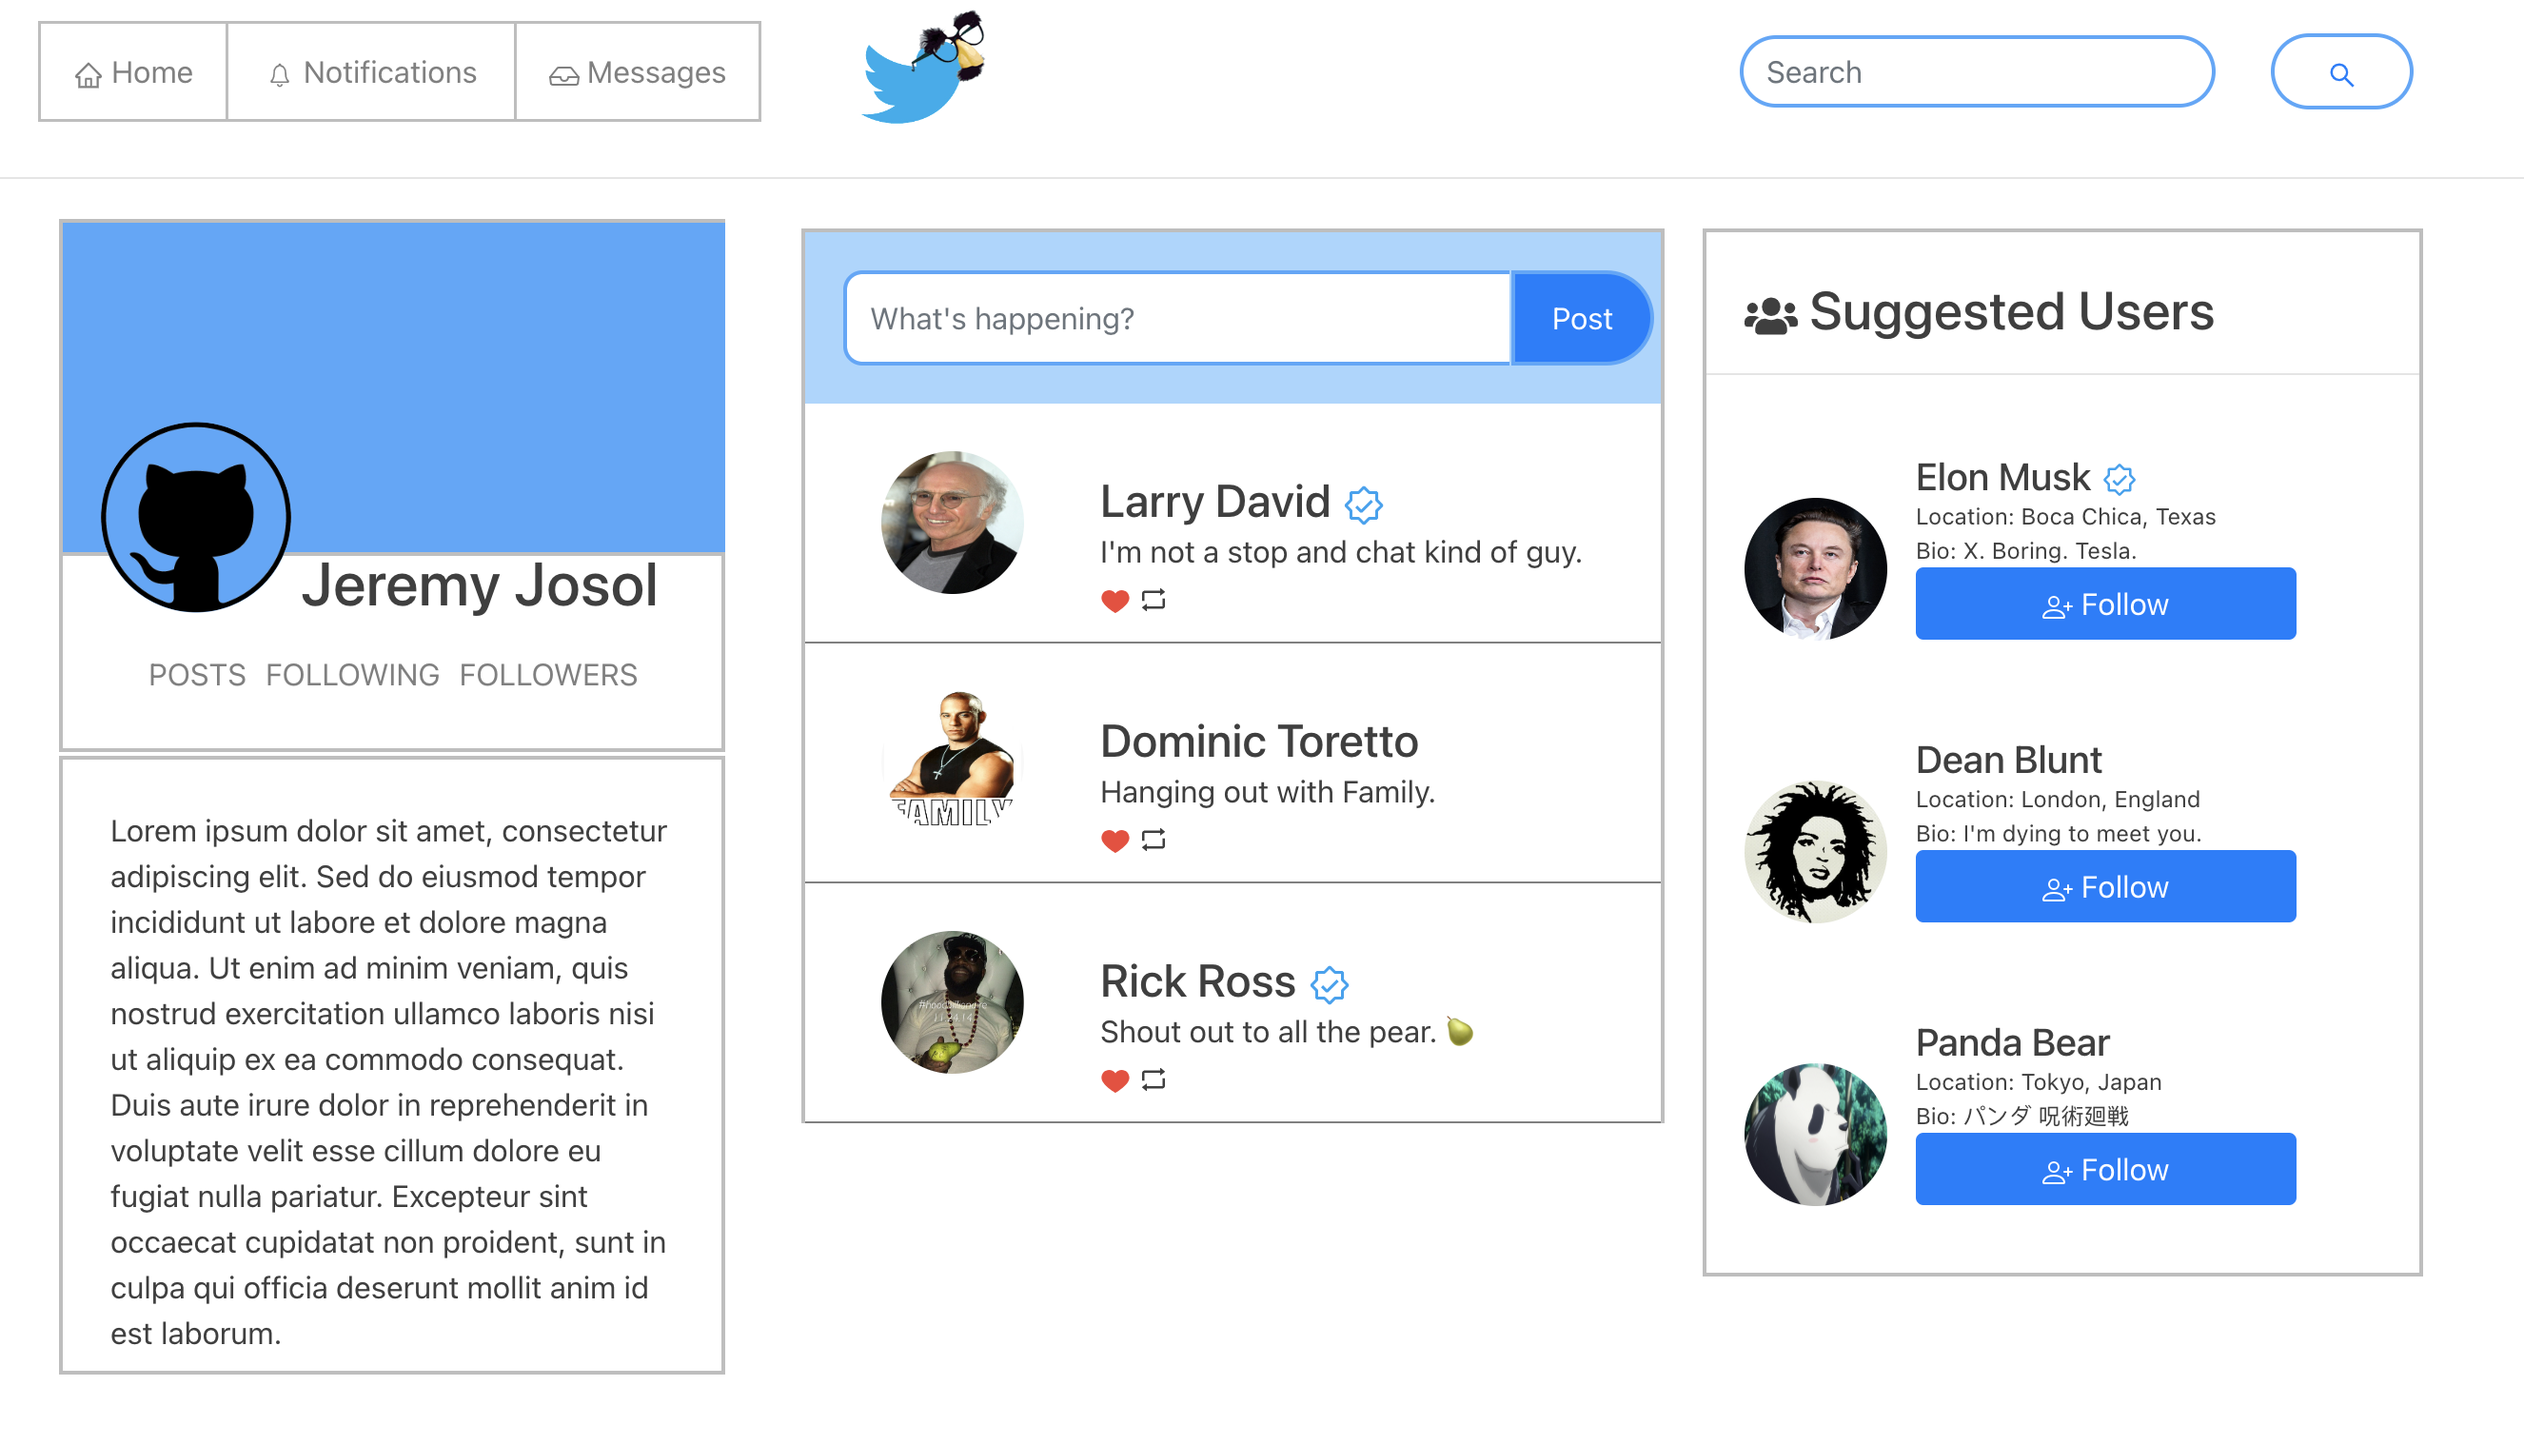
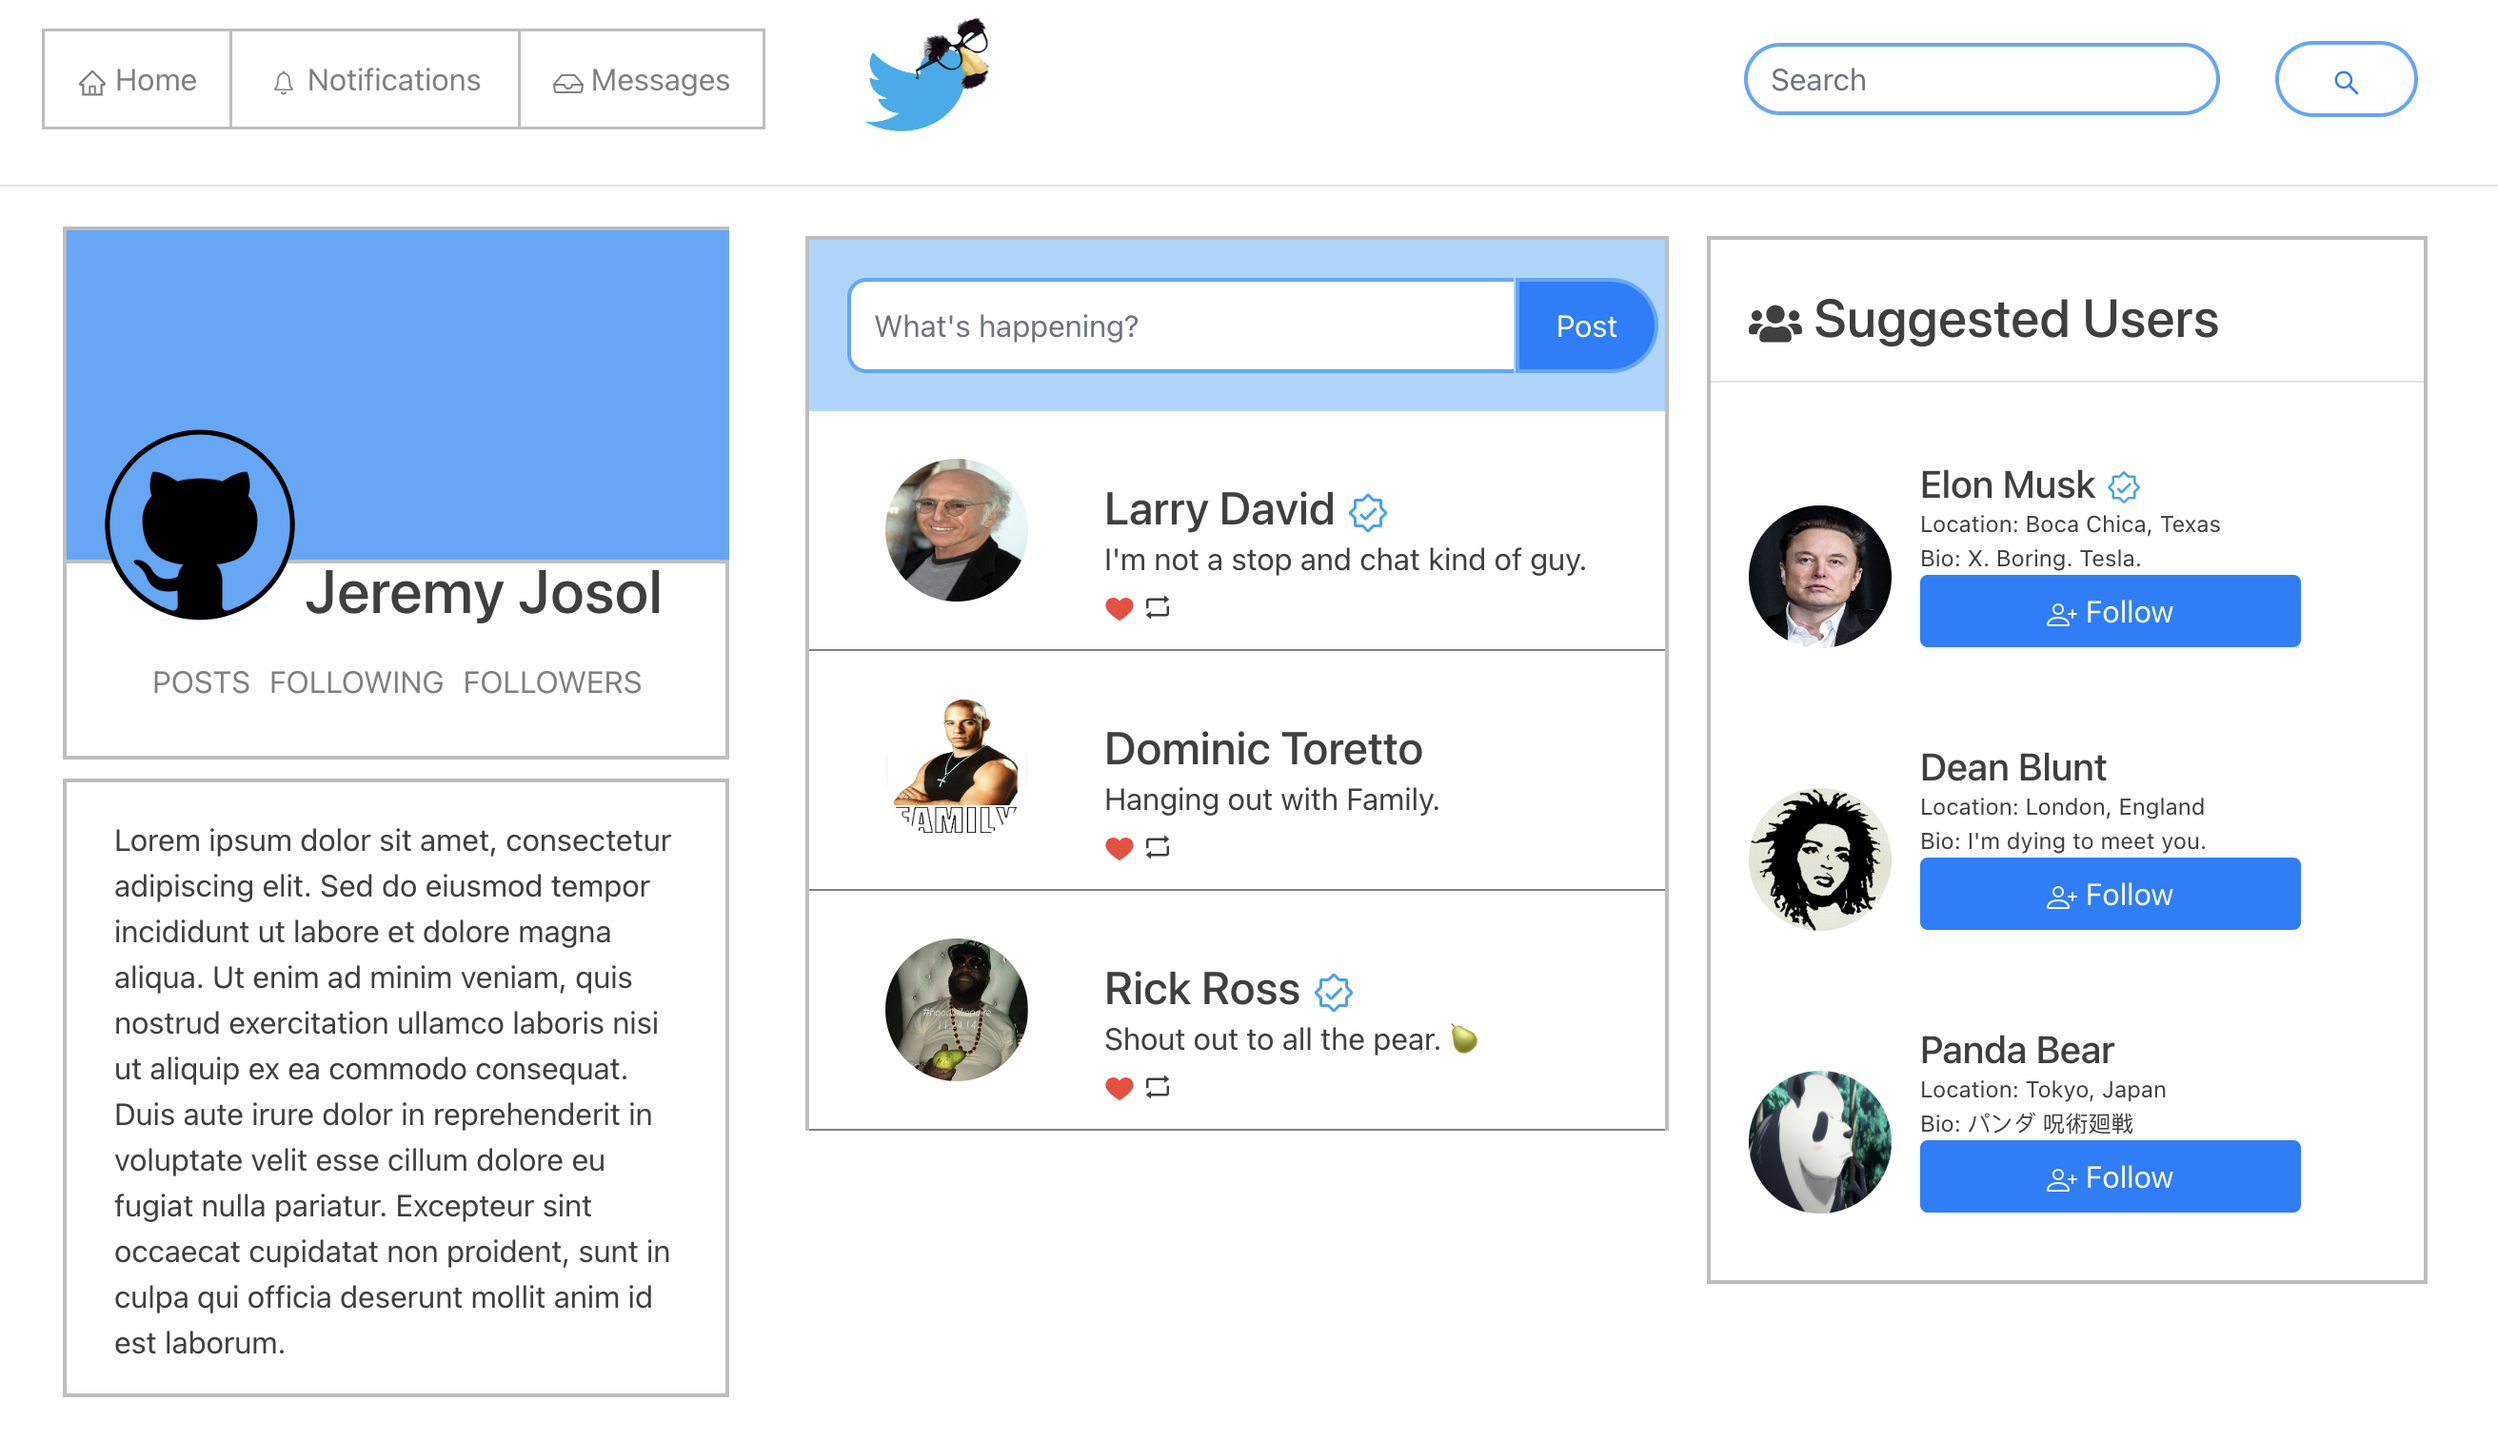
:hammer_and_wrench:

diff --git a/src/index.css b/src/index.css
@@ -131,10 +131,10 @@ code {
 }
 
 .user-bio {
-  margin-top: 2px;
+  margin-top: 10px;
   margin-left: -132px;
   margin-right: 20px;
-  padding: 25px 25px 25px 25px;
+  padding: 18px 25px 75px 25px;
   border: 2px solid rgb(190, 190, 190);
   width: 350px;
   height: 325px;
